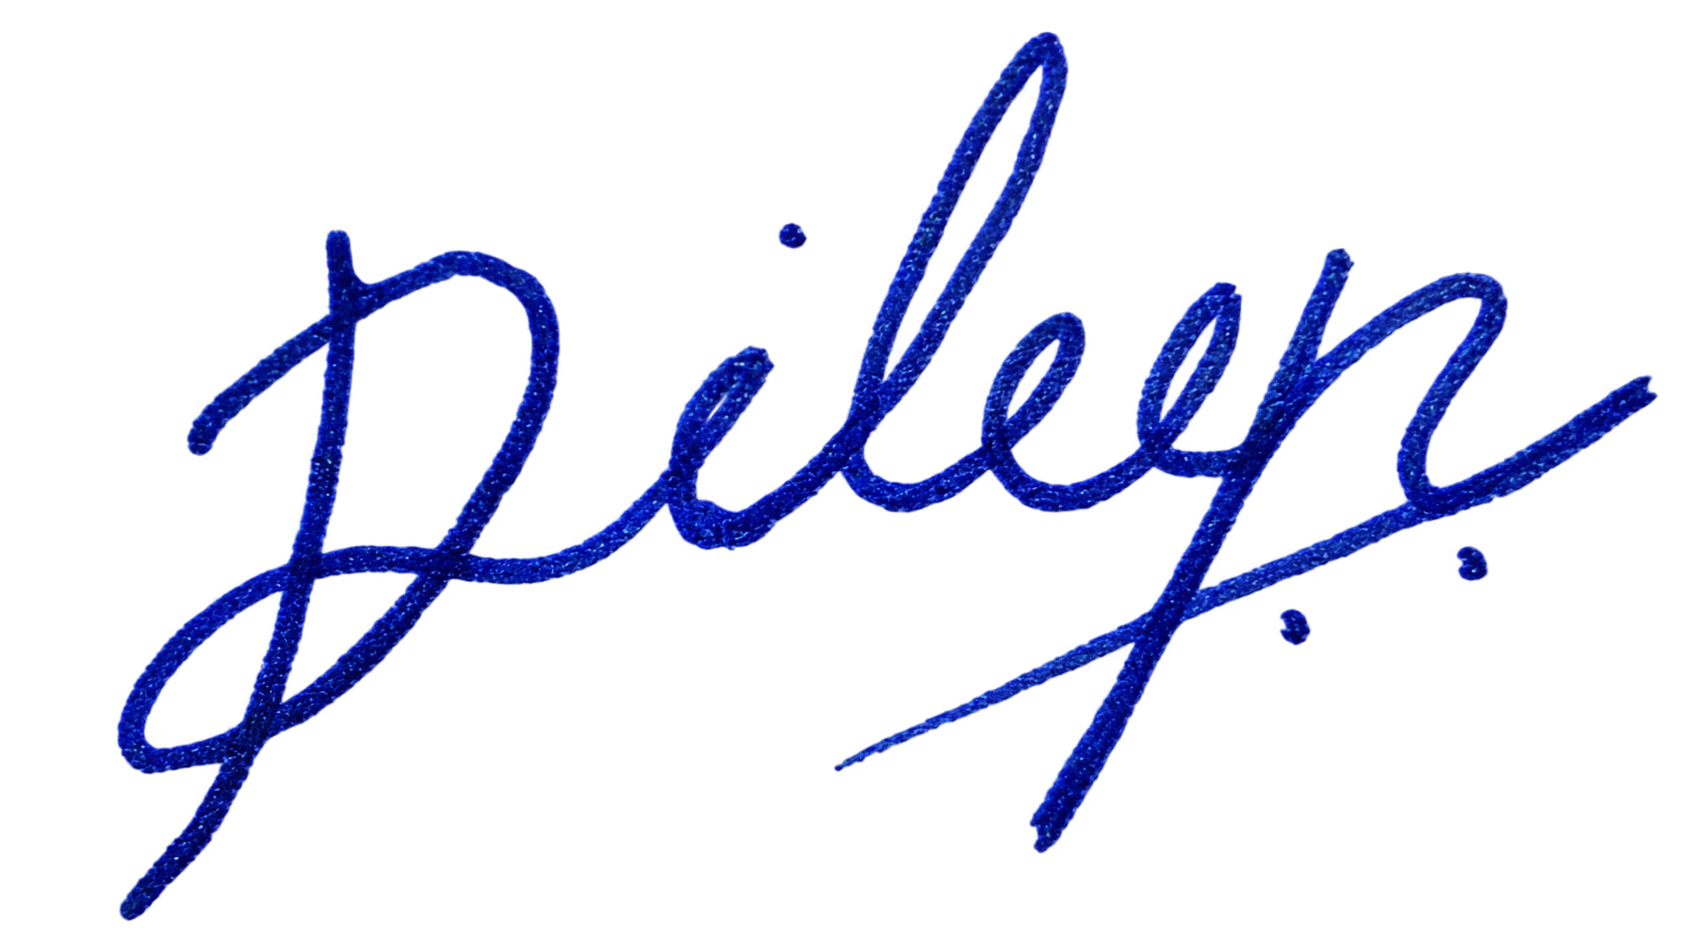
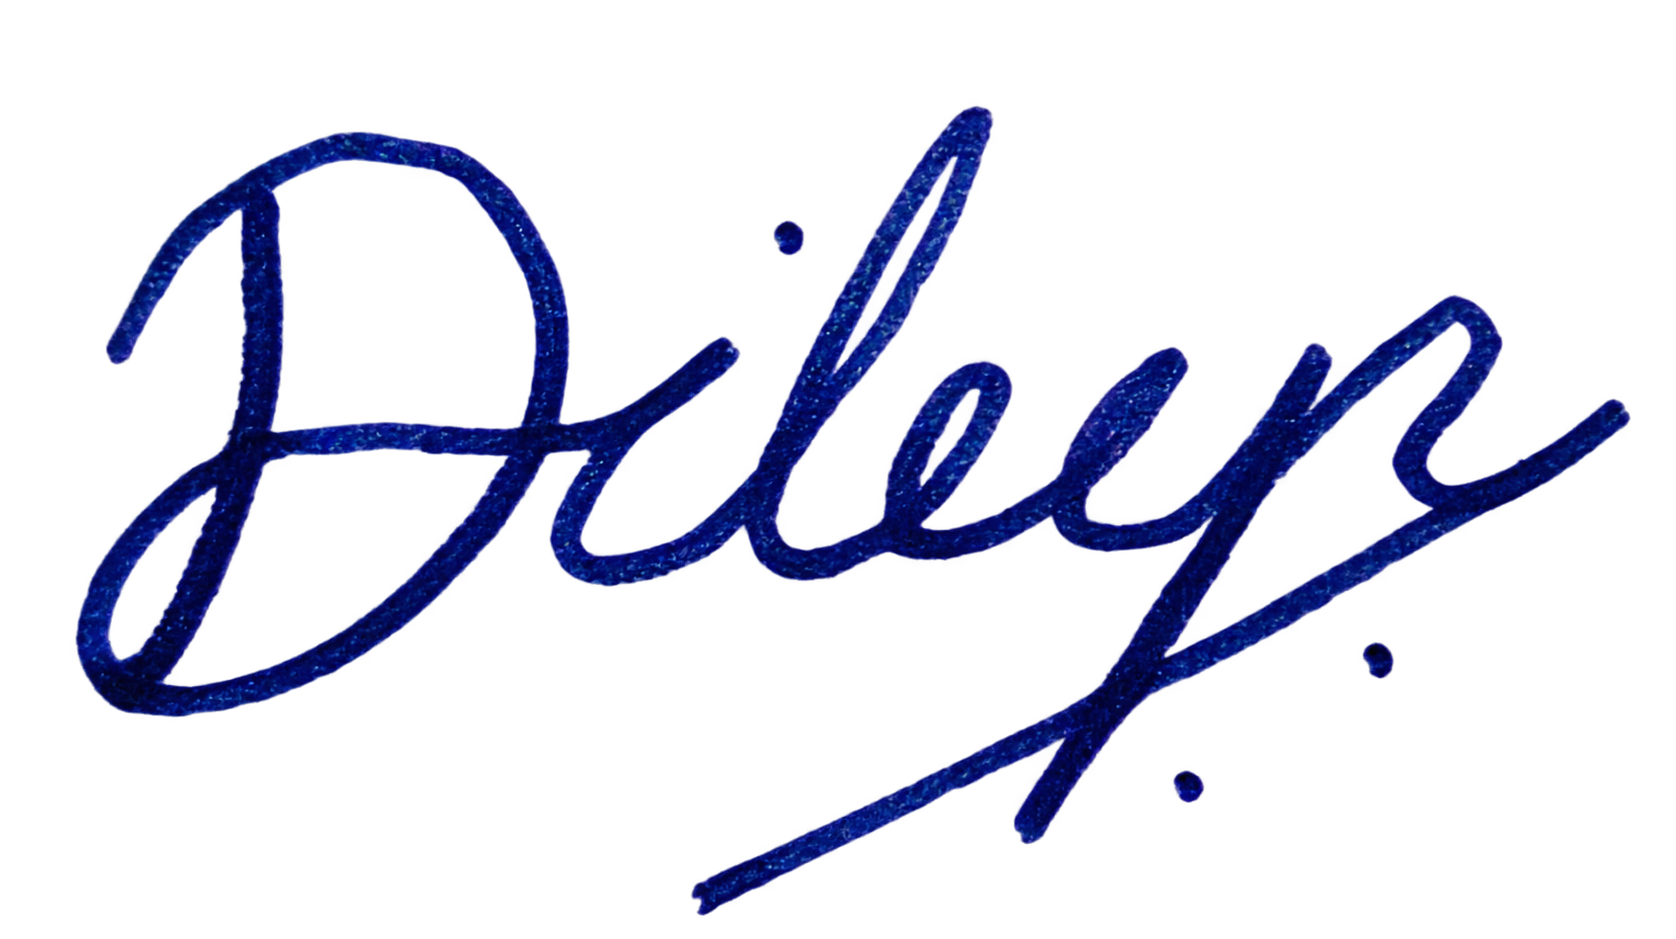
fix: fit certificate previews and replace issuer signature

Changed region(s): [[0.031, 0.0311, 0.9928, 0.9957], [0.6826, 0.809, 0.7136, 0.8712], [0.8067, 0.6845, 0.8377, 0.7157]]

diff --git a/public-admin/credential-operations/credential-generator/shared/credential-preview-fit.js b/public-admin/credential-operations/credential-generator/shared/credential-preview-fit.js
@@ -1,0 +1,105 @@
+/* LAAU certificate preview fitting — 20260922-signature-2
+   Scale only the visible preview. The separate PDF capture surfaces keep
+   their original dimensions, styles and publication behaviour. */
+
+const previewControllers = new WeakMap();
+const visiblePreviews = Object.freeze({
+    certificatePreview: ".certificate-template",
+    renderTrainerCertificatePreview: ".trainer-certificate-template"
+});
+
+export function fitCredentialPreview(container) {
+    if (!container) return null;
+
+    const selector = visiblePreviews[container.id];
+    if (!selector || container.closest("#pdfRenderContainer")) {
+        throw new Error("Certificate fitting requires a visible preview container.");
+    }
+
+    if (previewControllers.has(container)) {
+        return previewControllers.get(container);
+    }
+
+    let scheduledFrame = 0;
+    let stopped = false;
+
+    function update() {
+        scheduledFrame = 0;
+        if (stopped) return;
+
+        const canvas = container.querySelector(selector);
+        if (!canvas) {
+            container.classList.remove("laau-responsive-preview");
+            return;
+        }
+
+        container.classList.add("laau-responsive-preview");
+
+        let frame = canvas.parentElement;
+        if (!frame || !frame.hasAttribute("data-laau-preview-frame")) {
+            frame = document.createElement("div");
+            frame.className = "laau-preview-frame";
+            frame.setAttribute("data-laau-preview-frame", "");
+            canvas.before(frame);
+            frame.appendChild(canvas);
+        }
+
+        const styles = window.getComputedStyle(container);
+        const horizontalPadding =
+            (parseFloat(styles.paddingLeft) || 0) +
+            (parseFloat(styles.paddingRight) || 0);
+        const availableWidth = Math.max(0, container.clientWidth - horizontalPadding);
+
+        // A hidden initial view is measured again when ResizeObserver reports
+        // its visible size. Never infer the viewport width for a hidden card.
+        if (!availableWidth) return;
+
+        const width = canvas.offsetWidth;
+        const height = canvas.offsetHeight;
+        if (!width || !height) return;
+
+        const scale = Math.min(1, availableWidth / width);
+        const frameWidth = `${width * scale}px`;
+        const frameHeight = `${Math.ceil(height * scale)}px`;
+        const transform = `scale(${scale})`;
+
+        // Unchanged assignments are skipped so observing the container's
+        // height does not create a resize feedback loop.
+        if (frame.style.width !== frameWidth) frame.style.width = frameWidth;
+        if (frame.style.height !== frameHeight) frame.style.height = frameHeight;
+        if (canvas.style.transform !== transform) canvas.style.transform = transform;
+    }
+
+    function schedule() {
+        if (!stopped && !scheduledFrame) {
+            scheduledFrame = window.requestAnimationFrame(update);
+        }
+    }
+
+    const mutations = new MutationObserver(schedule);
+    mutations.observe(container, { childList: true });
+
+    const resize = typeof ResizeObserver === "function"
+        ? new ResizeObserver(schedule)
+        : null;
+    resize?.observe(container);
+    window.addEventListener("resize", schedule, { passive: true });
+
+    const controller = Object.freeze({
+        refresh: schedule,
+        disconnect() {
+            if (stopped) return;
+            stopped = true;
+            mutations.disconnect();
+            resize?.disconnect();
+            window.removeEventListener("resize", schedule);
+            if (scheduledFrame) window.cancelAnimationFrame(scheduledFrame);
+            scheduledFrame = 0;
+            previewControllers.delete(container);
+        }
+    });
+
+    previewControllers.set(container, controller);
+    schedule();
+    return controller;
+}

diff --git a/public-admin/credential-operations/credential-generator/assets/css/certificate-signature.css b/public-admin/credential-operations/credential-generator/assets/css/certificate-signature.css
@@ -1,7 +1,81 @@
-/* LAAU issuer signature — 20260922-signature-1
+/* LAAU issuer signature and preview layout — 20260922-signature-2
    Shared by university and trainer certificates. The approved issuer
    signature is independent of the trainer and licensed provider block.
    Keep the existing fixed 1100 × 778 landscape capture canvas. */
+
+/* Only these two generator pages carry this class. Shrink their flex/grid
+   ancestors to the available content width instead of the canvas width. */
+.laau-certificate-generator .content {
+    flex: 1 1 0;
+    width: 0;
+    min-width: 0;
+}
+
+.laau-certificate-generator .cg-container,
+.laau-certificate-generator .tcg-container,
+.laau-certificate-generator .cg-card,
+.laau-certificate-generator .tcg-card,
+.laau-certificate-generator .cg-preview,
+.laau-certificate-generator .tcg-preview {
+    min-width: 0;
+    max-width: 100%;
+    box-sizing: border-box;
+}
+
+.laau-certificate-generator .cg-search-grid,
+.laau-certificate-generator .tcg-search-grid,
+.laau-certificate-generator .cg-grid,
+.laau-certificate-generator .tcg-grid {
+    grid-template-columns: repeat(auto-fit, minmax(min(220px, 100%), 1fr));
+}
+
+.laau-certificate-generator #certificatePreview,
+.laau-certificate-generator #renderTrainerCertificatePreview {
+    display: block;
+    overflow: hidden;
+    padding: 16px;
+}
+
+.laau-certificate-generator #certificatePreview.laau-responsive-preview,
+.laau-certificate-generator #renderTrainerCertificatePreview.laau-responsive-preview {
+    min-height: 0;
+}
+
+.laau-responsive-preview > .laau-preview-frame {
+    position: relative;
+    margin: 0 auto;
+    overflow: hidden;
+}
+
+.laau-responsive-preview > .laau-preview-frame > .certificate-template,
+.laau-responsive-preview > .laau-preview-frame > .trainer-certificate-template {
+    position: absolute;
+    top: 0;
+    left: 0;
+    margin: 0;
+    transform-origin: top left;
+}
+
+@media (max-width: 768px) {
+    .laau-certificate-generator .content {
+        padding: 12px;
+    }
+
+    .laau-certificate-generator .cg-container,
+    .laau-certificate-generator .tcg-container {
+        padding: 0;
+    }
+
+    .laau-certificate-generator .cg-card,
+    .laau-certificate-generator .tcg-card {
+        padding: 12px;
+    }
+
+    .laau-certificate-generator #certificatePreview,
+    .laau-certificate-generator #renderTrainerCertificatePreview {
+        padding: 8px;
+    }
+}
 
 .certificate-template,
 .trainer-certificate-template {

diff --git a/public-admin/credential-operations/credential-generator/certificate/index.html b/public-admin/credential-operations/credential-generator/certificate/index.html
@@ -54,11 +54,11 @@
   />
   <link
     rel="stylesheet"
-    href="../assets/css/certificate-signature.css?v=20260922-signature-1"
+    href="../assets/css/certificate-signature.css?v=20260922-signature-2"
   />
 </head>
 
-<body class="app-loading">
+<body class="app-loading laau-certificate-generator">
 
   <div id="headerContainer"></div>
 
@@ -438,11 +438,11 @@
     );
 
     await import(
-      "./generator/certificate-pdf.js?v=20260922-signature-1"
+      "./generator/certificate-pdf.js?v=20260922-signature-2"
     );
 
     await import(
-      "./generator/certificate-generator.js?v=20260922-signature-1"
+      "./generator/certificate-generator.js?v=20260922-signature-2"
     );
 
     console.info(
@@ -452,7 +452,7 @@
           "20260922-seal-1",
 
         pdfEngine:
-          "20260922-signature-1",
+          "20260922-signature-2",
 
         controller:
           "v1.4.3"

diff --git a/public-admin/credential-operations/credential-generator/trainer-certificate/generator/trainer-certificate-generator.js b/public-admin/credential-operations/credential-generator/trainer-certificate/generator/trainer-certificate-generator.js
@@ -1,3 +1,5 @@
+import { fitCredentialPreview } from "../../shared/credential-preview-fit.js?v=20260922-signature-2";
+
 /* ==========================================================
    LAAU
    Credential Operations Suite
@@ -149,7 +151,7 @@ document.addEventListener(
             "https://aau-credential-verify-458881040066.asia-south1.run.app/admin/credential-registry";
 
         const TEMPLATE_URL =
-            "./template/trainer-certificate-template.html?v=20260922-signature-1";
+            "./template/trainer-certificate-template.html?v=20260922-signature-2";
 
         let previewRequestVersion = 0;
 
@@ -379,6 +381,8 @@ document.addEventListener(
             document.getElementById(
                 "renderTrainerCertificatePreview"
             );
+
+        fitCredentialPreview(trainerCertificatePreview);
 
 
         /* ==================================================

diff --git a/public-admin/credential-operations/credential-generator/trainer-certificate/index.html b/public-admin/credential-operations/credential-generator/trainer-certificate/index.html
@@ -132,12 +132,12 @@
 
   <link
     rel="stylesheet"
-    href="../assets/css/certificate-signature.css?v=20260922-signature-1"
+    href="../assets/css/certificate-signature.css?v=20260922-signature-2"
   />
 </head>
 
 
-<body class="app-loading">
+<body class="app-loading laau-certificate-generator">
 
 
   <!-- =====================================================
@@ -789,7 +789,7 @@
 
   <script
     type="module"
-    src="./generator/trainer-certificate-generator.js?v=20260922-signature-1"
+    src="./generator/trainer-certificate-generator.js?v=20260922-signature-2"
   ></script>
 
 
@@ -826,7 +826,7 @@
 
   <script
     type="module"
-    src="./generator/trainer-certificate-pdf.js?v=20260922-signature-1"
+    src="./generator/trainer-certificate-pdf.js?v=20260922-signature-2"
   ></script>
 
 

diff --git a/public-admin/credential-operations/credential-generator/certificate/template/certificate-template.html b/public-admin/credential-operations/credential-generator/certificate/template/certificate-template.html
@@ -51,7 +51,7 @@ Template Authority:
 certificate-template.html
 
 Version 1.2: Approved LAAU issuer signature added in the footer.
-Release: 20260922-signature-1
+Release: 20260922-signature-2
 
 Locked:
 June 2026
@@ -167,7 +167,7 @@ June 2026
     <div class="certificate-signatory" aria-label="LAAU authorised signatory">
 
         <img
-            src="/credential-operations/credential-generator/assets/images/Dileep-Appupillai-Signature.png?v=20260922-signature-1"
+            src="/credential-operations/credential-generator/assets/images/Dileep-Appupillai-Signature.png?v=20260922-signature-2"
             data-laau-signature
             alt="Dileep Appupillai's signature"
             class="certificate-signature-image"

diff --git a/public-admin/credential-operations/credential-generator/certificate/generator/certificate-generator.js b/public-admin/credential-operations/credential-generator/certificate/generator/certificate-generator.js
@@ -1,3 +1,5 @@
+import { fitCredentialPreview } from "../../shared/credential-preview-fit.js?v=20260922-signature-2";
+
 /* =====================================================
 LAAU
 Certificate Generator Controller
@@ -114,6 +116,8 @@ v1.4.1
       document.getElementById(
         "certificatePreview"
       );
+
+    fitCredentialPreview(certificatePreview);
 
     const credentialIdValue =
       document.getElementById(
@@ -798,7 +802,7 @@ v1.4.1
 
         const response =
           await fetch(
-            "./template/certificate-template.html?v=20260922-signature-1",
+            "./template/certificate-template.html?v=20260922-signature-2",
             {
               cache: "no-store"
             }

diff --git a/public-admin/credential-operations/credential-generator/shared/credential-render-assets.js b/public-admin/credential-operations/credential-generator/shared/credential-render-assets.js
@@ -1,5 +1,5 @@
 /*
- * LAAU credential export prerequisites — 20260922-signature-1.
+ * LAAU credential export prerequisites — 20260922-signature-2.
  * Fail before upload when a render is stale or a required image is unavailable.
  * Each export uses a new Storage object; existing published files stay intact.
  */
@@ -9,7 +9,7 @@ const SEAL_PATH =
 const SEAL_VERSION = "?v=20260922-seal-1";
 const SIGNATURE_PATH =
     "/credential-operations/credential-generator/assets/images/Dileep-Appupillai-Signature.png";
-const SIGNATURE_VERSION = "?v=20260922-signature-1";
+const SIGNATURE_VERSION = "?v=20260922-signature-2";
 const RENDER_TIMEOUT_MS = 15000;
 
 function withTimeout(promise, message) {

diff --git a/public-admin/credential-operations/credential-generator/trainer-certificate/template/trainer-certificate-template.html b/public-admin/credential-operations/credential-generator/trainer-certificate/template/trainer-certificate-template.html
@@ -213,7 +213,7 @@ June 2026
     <div class="certificate-signatory" aria-label="LAAU authorised signatory">
 
         <img
-            src="/credential-operations/credential-generator/assets/images/Dileep-Appupillai-Signature.png?v=20260922-signature-1"
+            src="/credential-operations/credential-generator/assets/images/Dileep-Appupillai-Signature.png?v=20260922-signature-2"
             data-laau-signature
             alt="Dileep Appupillai's signature"
             class="certificate-signature-image"

diff --git a/public-admin/credential-operations/credential-generator/trainer-certificate/generator/trainer-certificate-pdf.js b/public-admin/credential-operations/credential-generator/trainer-certificate/generator/trainer-certificate-pdf.js
@@ -124,7 +124,7 @@
 import {
     prepareCredentialRender,
     buildVersionedAssetPath
-} from "../../shared/credential-render-assets.js?v=20260922-signature-1";
+} from "../../shared/credential-render-assets.js?v=20260922-signature-2";
 
 import { assertProviderRender } from "../../shared/training-provider-branding.js?v=20260922-academy-brand-2";
 

diff --git a/public-admin/credential-operations/credential-generator/certificate/generator/certificate-pdf.js b/public-admin/credential-operations/credential-generator/certificate/generator/certificate-pdf.js
@@ -70,7 +70,7 @@ v1.3.1
 import {
     prepareCredentialRender,
     buildVersionedAssetPath
-} from "../../shared/credential-render-assets.js?v=20260922-signature-1";
+} from "../../shared/credential-render-assets.js?v=20260922-signature-2";
 
 import {
     storage
